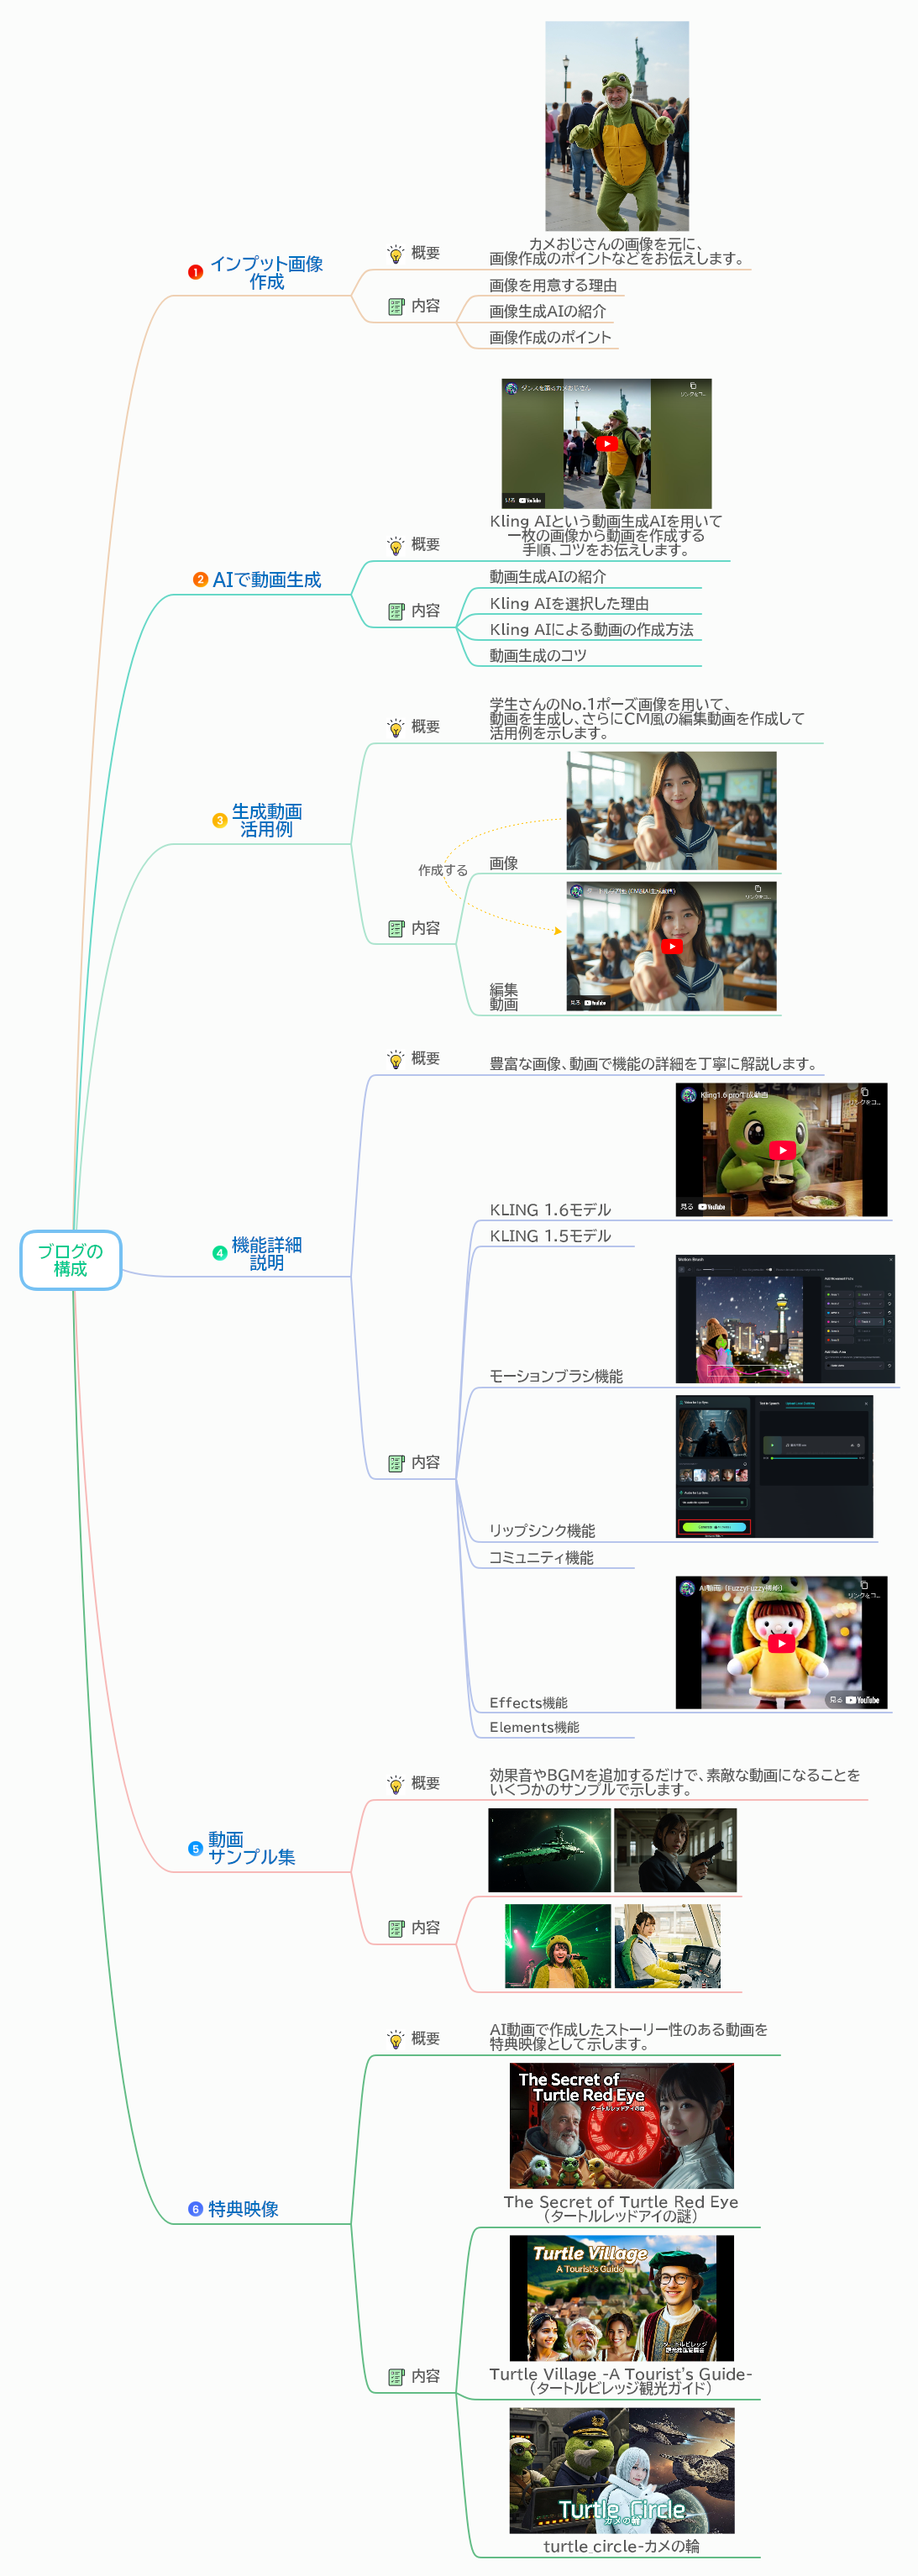
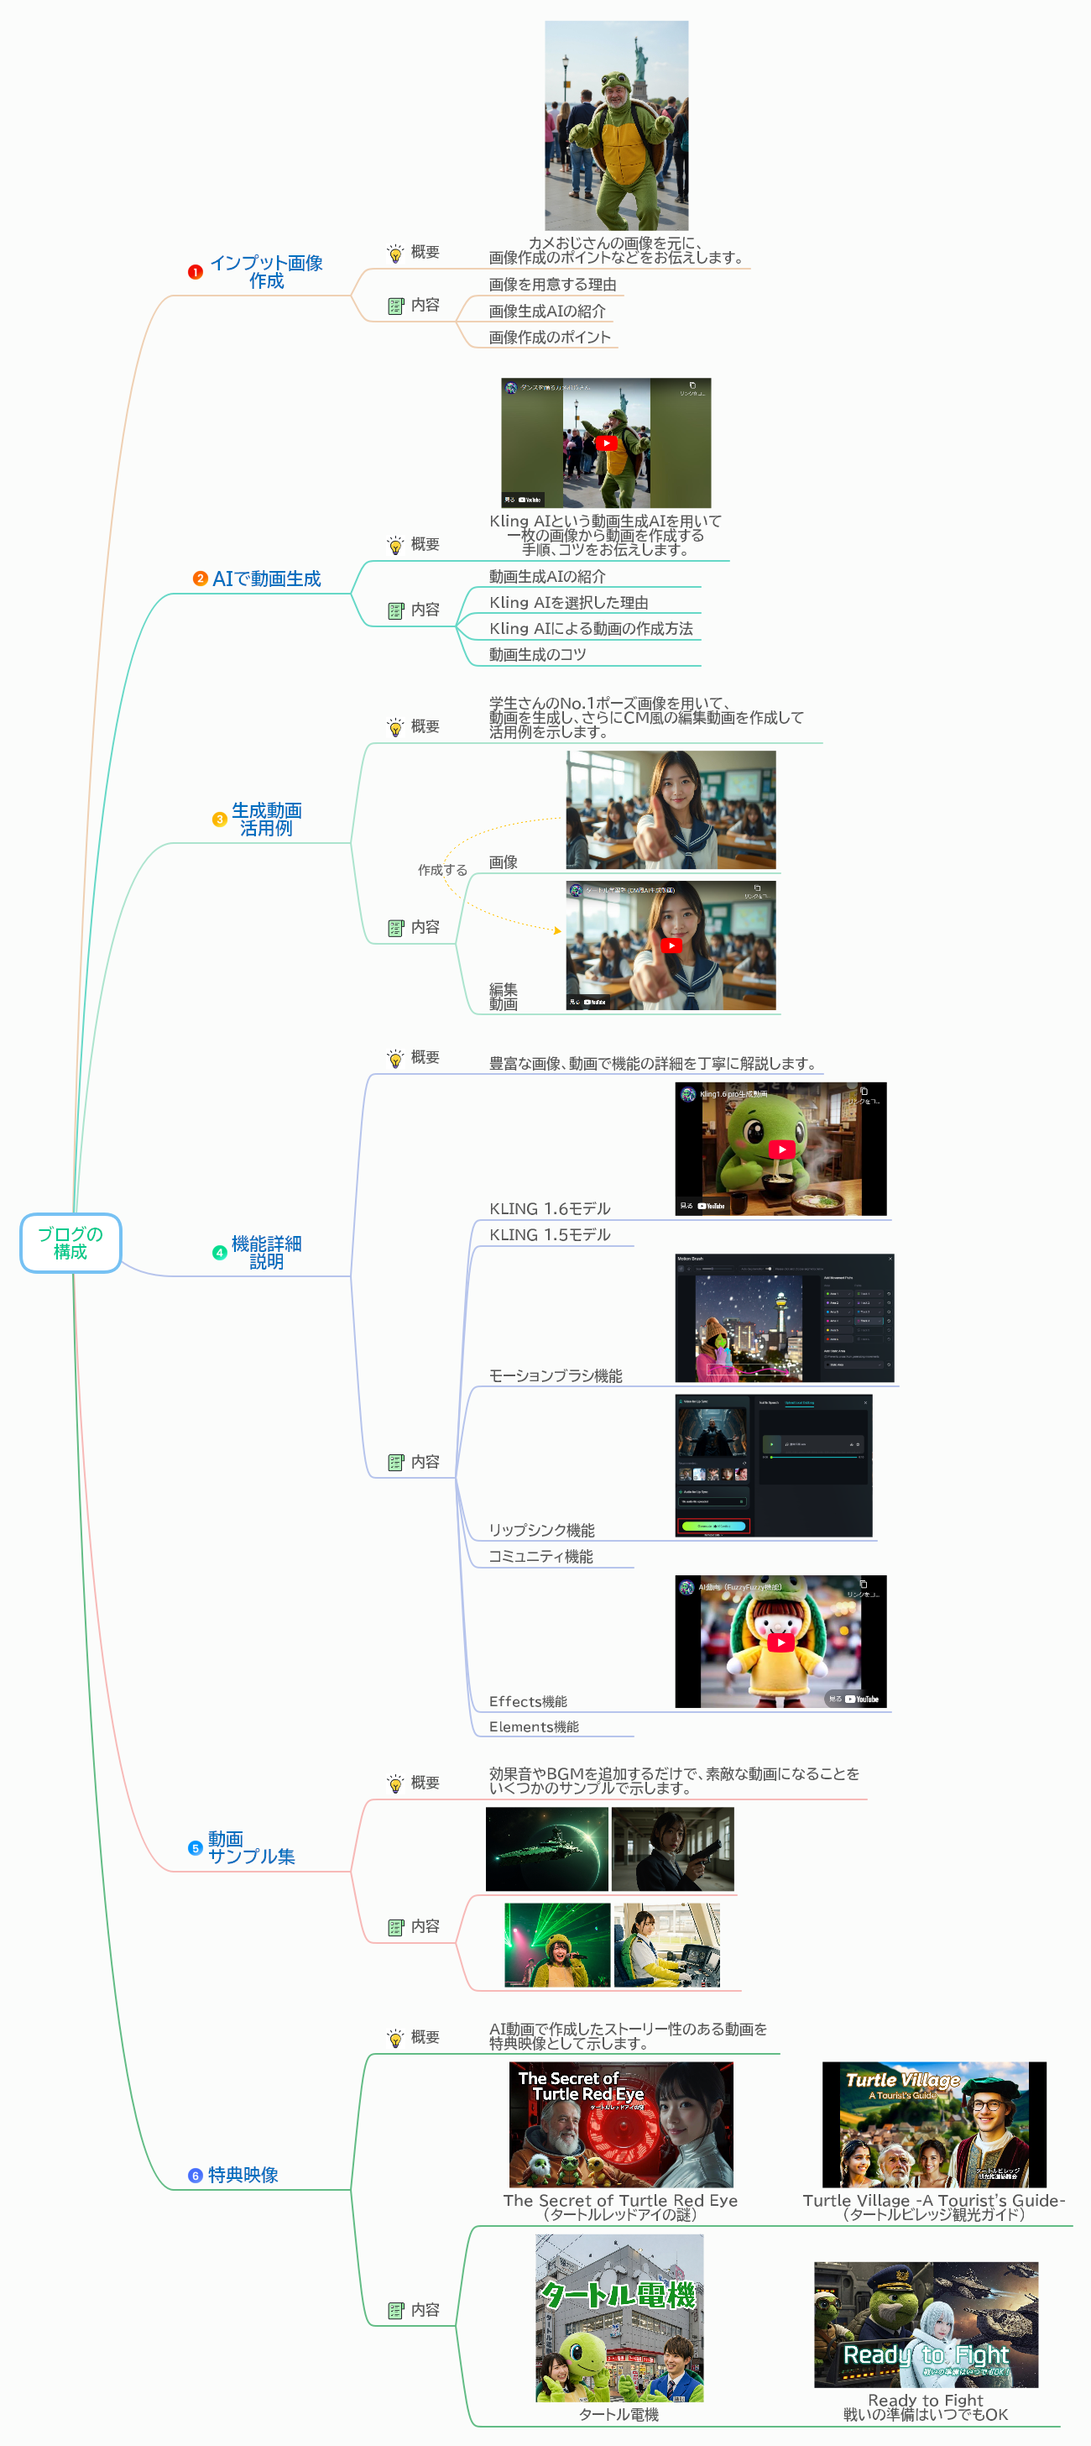
Kling 小規模更新

diff --git a/articles/turtle-20240916-klingai.md b/articles/turtle-20240916-klingai.md
@@ -35,7 +35,7 @@ Kling AIで動画を生成した後、それらと各種素材をうまく組み
 https://www.youtube.com/watch?v=e9NK0dW7yf0
 
 今回は、このAIツールを用いた動画生成の基本的な方法と、生成した5秒から10秒のAI動画をどのように活用するかについて例を紹介します。
-なお、ブログの最後に「Tales of the Fortress 要塞物語」の続きの動画「The Secret of Turtle Red Eye（タートルレッドアイの謎）」と「Turtle Village -A Tourist's Guide-（タートルビレッジ観光ガイド）」を用意しております。ブログを一通り読んで、ちょっとリラックスしたいときに見ていただければ幸いです。
+なお、ブログの最後に「Tales of the Fortress 要塞物語」の続きの動画「The Secret of Turtle Red Eye（タートルレッドアイの謎）」と「Turtle Village -A Tourist's Guide-（タートルビレッジ観光ガイド）」を用意しております。さらには、新作の「Ready to Fight」も追加しました！ブログを一通り読んで、ちょっとリラックスしたいときに見ていただければ幸いです。
 
 ![](/images/turtle-20240916-klingai/mov_sam.png)
 ![](/images/turtle-20240916-klingai/turtle_circle.jpg =330x)
@@ -618,21 +618,6 @@ https://www.youtube.com/watch?v=l3qHAIK-fy4
 - 字幕英訳: GPT4o、Claude3.5 Sonnet、Gemini
   ※英語字幕は、GPT4oとClaudeに日本語を英訳してもらい、それをGeminiに評価してもらうという方法を取っています。最終的にどれを使うかは、私のなけなしの英語能力による判断なのですが、ニュアンスの近そうなものを選択しています。
 
-**● Turtle Circle**
-宇宙を舞台にした戦いで主人公は敗北するが・・・そこに現れた謎の女性。果たしてこの輪から抜け出せるのか？
-
-https://www.youtube.com/watch?v=3xiYsyuHTqI
-
-使用したツールは次の通りです。
-
-- 動画生成AI：Kling AI
-- 画像生成AI：Imagen3
-- 合成音声AI：VOICEPEAK 商用可能 6ナレーターセット
-- 編集ソフト：Filmora
-- BGM（音楽AI）: Filmora Generative Music
-- 字幕英訳: Gemini
-  ※この動画はまだ作成途中ですが、一旦キリの良いところまで出来たので公開しています。
-
 **● タートル電機**
 勢いで作ったCM風動画！この動画を見たらきっと元気になることが出来ます。そして、気づいたらタートル電機の歌を歌っていると思いますｗ
 
@@ -643,7 +628,23 @@ https://www.youtube.com/watch?v=jFaaWj3wYos
 - 動画生成AI：Kling AI
 - 画像生成AI：Imagen3
 - 編集ソフト：Filmora
-- BGM（音楽AI）: suno
+- BGM（音楽AI）: Suno
+
+**● Ready to Fight**
+宇宙を舞台にした戦いで主人公は敗北するが・・・そこに現れた謎の女性。果たして戦いに勝ち、平和を手にすることはできるのか？
+動画後半のクライマックスシーンは必見です👍
+
+https://www.youtube.com/watch?v=weqURR9SIGM
+
+使用したツールは次の通りです。
+
+- 動画生成AI：Kling AI
+- 画像生成AI：Imagen3
+- 合成音声AI：VOICEPEAK 商用可能 6ナレーターセット
+- 編集ソフト：Filmora
+- BGM（音楽AI）:  Suno、Filmora Generative Music
+- 字幕英訳: Gemini
+  ※この動画はまだ作成途中ですが、一旦キリの良いところまで出来たので公開しています。
 
 ここまでブログを読んでくださった方は、きっとこのような動画作成できるようになると思いますので、チャレンジしてみてください。
 
@@ -681,8 +682,12 @@ https://zenn.dev/safubuki/articles/turtle-20240223-gitcopilot
 更新履歴は折りたたみ表示にしています。
 確認したい場合は、以下のバーをクリック（タップ）してください。
 
-:::details 更新履歴（最終更新日：2025/3/28）
+:::details 更新履歴（最終更新日：2025/4/03）
 **更新履歴**
+
+- **2025/4/03**
+  - ブログ構成のマインドマップを修正しました。
+  - Turtle CircleをReady to Fightに差し替えました。
 
 - **2025/3/28**
   - 説明用の画像、全20枚をすべて新UIに対応。
